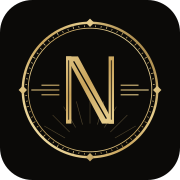
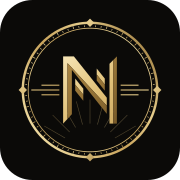
Redraw the monogram as a sharp, chiselled N after the original mark; land Join Us under the header
The N follows the family's original logo: the left stem and diagonal form one
blade meeting in a point, the right stem stands apart behind a hairline gap,
and two small blades echo the diagonal. Every blade has a lit and a shaded
face, so the gold reads as cut metal. The ring, bezel and wings stay.

Clicking Join Us used to land on the section's empty top padding; the card
now sits just under the header.

Claude-Session: https://claude.ai/code/session_019yYaA1peqdw6nsxgVBUDmq

Changed region(s): [[0.3333, 0.3056, 0.6667, 0.6944]]

diff --git a/src/lib/crest.ts b/src/lib/crest.ts
@@ -1,8 +1,9 @@
 /**
- * The Navierre monogram: a geometric art-deco N inside a fine double ring,
- * with a faint sunburst behind the letter. Original artwork, drawn entirely
- * from paths (no fonts), so the same SVG renders on the site, in favicons and
- * in the build-time link-preview images. Bold enough to read at icon size.
+ * The Navierre monogram: a sharp, chiselled N inside a fine double ring with a
+ * watch-bezel of ticks, deco wings and a low sunrise of rays behind the letter.
+ * Original artwork, drawn entirely from paths (no fonts), so the same SVG
+ * renders on the site, in favicons and in the build-time link-preview images.
+ * Bold enough to read at icon size.
  */
 
 export interface CrestOptions {
@@ -25,39 +26,71 @@ export interface CrestOptions {
 
 const r2 = (n: number) => Math.round(n * 100) / 100;
 
+type Pt = [number, number];
+
 /**
- * Geometric N: two slim stems and a heavy diagonal, squared off like 1920s
- * signage. The diagonal carries a hairline inline, cut in the background colour.
+ * A sharp, chiselled N after the family's original mark: the left stem and the
+ * diagonal are one blade meeting in a point at the top, the right stem stands
+ * apart behind a hairline gap, and two small blades echo the diagonal. Each
+ * blade is split along its ridge into a lit face and a shaded face, so the gold
+ * reads as cut metal. Drawn on an 80 × 100 grid.
  */
-const N_STEMS = 'M40 32H44.5V88H40ZM75.5 32H80V88H75.5Z';
-const N_DIAGONAL = 'M40 32H50L80 88H70Z';
-const N_INLINE = 'M46.6 36.5 73.4 83.5';
-/** Hairline inlines down the stems, so the whole letter reads as engraved. */
-const N_STEM_INLINES = 'M42.25 35.5V84.5M77.75 35.5V84.5';
+const N_FACES: { lit: Pt[]; shade: Pt[] }[] = [
+  // left stem + diagonal
+  {
+    lit: [[0, 0], [16, 0], [65, 61.5], [65, 73.5], [6.5, 10], [6.5, 93], [0, 100]],
+    shade: [[6.5, 10], [65, 73.5], [65, 85.5], [13, 20], [13, 86], [6.5, 93]],
+  },
+  // right stem, cut to a point at the top
+  {
+    lit: [[69, 11], [74.5, 5.5], [74.5, 100], [69, 100]],
+    shade: [[74.5, 5.5], [80, 0], [80, 100], [74.5, 100]],
+  },
+  // blade under the diagonal
+  {
+    lit: [[18, 33], [30, 48], [30, 57], [18, 42]],
+    shade: [[18, 42], [30, 57], [30, 66], [18, 51]],
+  },
+  // blade over the diagonal
+  {
+    lit: [[50, 18], [62, 33], [62, 42], [50, 27]],
+    shade: [[50, 27], [62, 42], [62, 51], [50, 36]],
+  },
+];
+
+const poly = (pts: Pt[], scale: number, dx: number, dy: number) =>
+  'M' + pts.map(([x, y]) => `${r2(dx + x * scale)} ${r2(dy + y * scale)}`).join('L') + 'Z';
 
 export function crestSvg(opts: CrestOptions = {}): string {
   const { id = 'crest', variant = 'full', color, className = '', title, animated = false } = opts;
   const paint = color ?? `url(#${id}-gold)`;
   const cls = (name: string) => (animated ? ` class="${name}"` : '');
   const draw = animated ? ' pathLength="1"' : '';
+  const lit = color ?? `url(#${id}-lit)`;
+  const shade = color ?? `url(#${id}-shade)`;
   const defs = color
     ? ''
     : `<defs><linearGradient id="${id}-gold" gradientUnits="userSpaceOnUse" x1="20" y1="8" x2="100" y2="112">` +
       '<stop offset="0" stop-color="#f3e1a8"/><stop offset=".45" stop-color="#c9a45c"/>' +
-      '<stop offset=".72" stop-color="#e6cd8c"/><stop offset="1" stop-color="#9c7a3c"/></linearGradient></defs>';
+      '<stop offset=".72" stop-color="#e6cd8c"/><stop offset="1" stop-color="#9c7a3c"/></linearGradient>' +
+      `<linearGradient id="${id}-lit" gradientUnits="userSpaceOnUse" x1="30" y1="25" x2="90" y2="95">` +
+      '<stop offset="0" stop-color="#fbeec4"/><stop offset=".55" stop-color="#e2c27a"/><stop offset="1" stop-color="#c9a45c"/></linearGradient>' +
+      `<linearGradient id="${id}-shade" gradientUnits="userSpaceOnUse" x1="30" y1="25" x2="90" y2="95">` +
+      '<stop offset="0" stop-color="#b8924c"/><stop offset=".6" stop-color="#8e6d33"/><stop offset="1" stop-color="#6e5226"/></linearGradient>' +
+      '</defs>';
 
-  const letter =
+  /** The N at a given scale and offset (its grid is 80 × 100). */
+  const letterAt = (scale: number, dx: number, dy: number) =>
     `<g${cls('crest-letter')}>` +
-    `<path d="${N_STEMS}" fill="${paint}"/><path d="${N_DIAGONAL}" fill="${paint}"/>` +
-    `<path d="${N_INLINE}" stroke="var(--crest-bg,#0b0a08)" stroke-width="1.1" stroke-linecap="round"/>` +
-    (variant === 'full' ? `<path d="${N_STEM_INLINES}" stroke="var(--crest-bg,#0b0a08)" stroke-width=".7" stroke-linecap="round"/>` : '') +
+    `<path d="${N_FACES.map((f) => poly(f.lit, scale, dx, dy)).join('')}" fill="${lit}"/>` +
+    `<path d="${N_FACES.map((f) => poly(f.shade, scale, dx, dy)).join('')}" fill="${shade}"${color ? ' fill-opacity=".62"' : ''}/>` +
     `</g>`;
 
   let body: string;
   let viewBox: string;
   if (variant === 'mark') {
-    viewBox = '36 28 48 64';
-    body = letter;
+    viewBox = '-4 -4 88 108';
+    body = letterAt(1, 0, 0);
   } else {
     viewBox = '0 0 120 120';
     // A low sunrise of fine rays beneath the letter, clipped to the inner ring.
@@ -89,7 +122,8 @@ export function crestSvg(opts: CrestOptions = {}): string {
       '<path d="M60 0.5 63.5 4 60 7.5 56.5 4Z"/><path d="M60 112.5 63.5 116 60 119.5 56.5 116Z"/>' +
       '<path d="M0.5 60 4 56.5 7.5 60 4 63.5Z"/><path d="M112.5 60 116 56.5 119.5 60 116 63.5Z"/>' +
       '</g>' +
-      letter;
+      // 0.56 scale: 45 × 56, centred in the ring
+      letterAt(0.56, 37.6, 32);
   }
 
   const a11y = title ? `role="img" aria-label="${title}"><title>${title}</title` : 'aria-hidden="true" focusable="false"';

diff --git a/tests/crest.test.ts b/tests/crest.test.ts
@@ -19,7 +19,7 @@ describe('crestSvg', () => {
   it('draws just the N for tight spaces', () => {
     const svg = crestSvg({ variant: 'mark' });
     expect(svg).not.toContain('<circle');
-    expect(svg).toContain('viewBox="36 28 48 64"');
+    expect(svg).toContain('viewBox="-4 -4 88 108"');
   });
 
   it('adds animation hooks only when asked', () => {
@@ -35,6 +35,7 @@ describe('crestSvg', () => {
     expect(svg).toContain('<title>The Navierre crest</title>');
     expect(svg).not.toContain('linearGradient');
     expect(svg).toContain('fill="currentColor"');
+    expect(svg).toContain('fill-opacity=".62"'); // the shaded faces still read in one colour
   });
 
   it('uses no text, so it renders the same without web fonts', () => {
